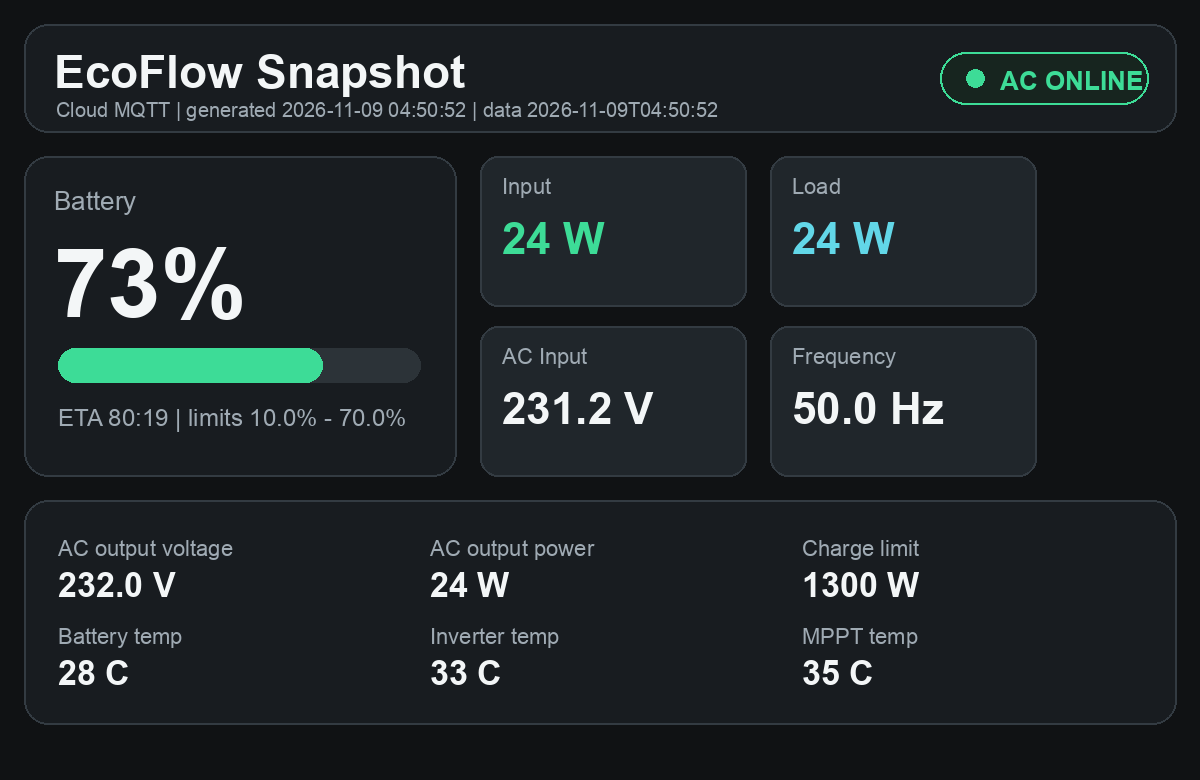
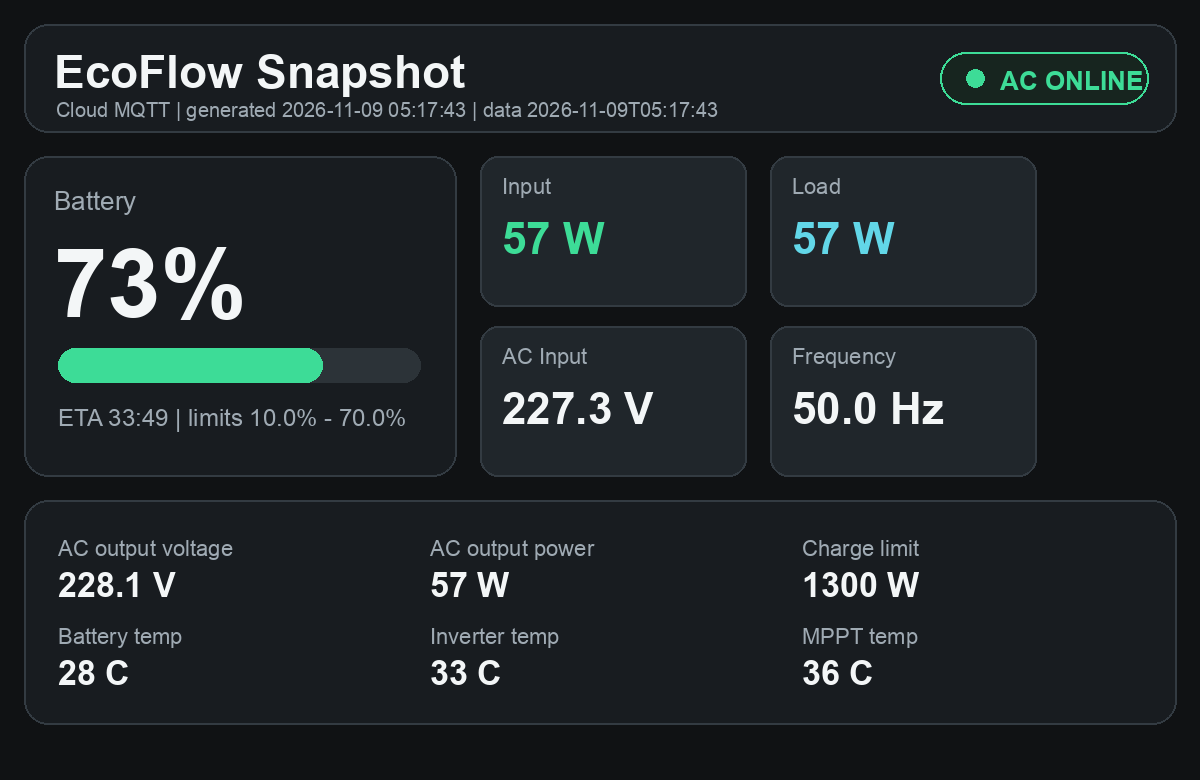
Update EcoFlow dashboard 2026-11-09 05:17:43

diff --git a/index.html b/index.html
@@ -177,7 +177,7 @@
   <header>
     <div>
       <h1>EcoFlow Snapshot</h1>
-      <div class="sub">Cloud MQTT · generated 2026-11-09T04:50:52 · data 2026-11-09T04:50:52</div>
+      <div class="sub">Cloud MQTT · generated 2026-11-09T05:17:43 · data 2026-11-09T05:17:43</div>
     </div>
     <div class="status online"><span class="dot"></span><span>AC online</span></div>
   </header>
@@ -189,20 +189,20 @@
       <h2>Battery</h2>
       <div class="value">73%</div>
       <div class="battery"><div class="fill"></div></div>
-      <div class="row"><span>ETA</span><span>80:19</span></div>
+      <div class="row"><span>ETA</span><span>33:49</span></div>
       <div class="row"><span>SOC limits</span><span>10.0% - 70.0%</span></div>
     </section>
     <section>
       <h2>AC</h2>
-      <div class="row"><span>Input voltage</span><span>231.2 V</span></div>
+      <div class="row"><span>Input voltage</span><span>227.3 V</span></div>
       <div class="row"><span>Input frequency</span><span>50.0 Hz</span></div>
-      <div class="row"><span>Output voltage</span><span>232.0 V</span></div>
+      <div class="row"><span>Output voltage</span><span>228.1 V</span></div>
     </section>
   </div>
 
   <div class="cards">
-    <div class="card"><span class="label">Input</span><span class="value">24 W</span></div>
-    <div class="card"><span class="label">Load</span><span class="value">24 W</span></div>
+    <div class="card"><span class="label">Input</span><span class="value">57 W</span></div>
+    <div class="card"><span class="label">Load</span><span class="value">57 W</span></div>
     <div class="card"><span class="label">Battery temp</span><span class="value">28°C</span></div>
     <div class="card"><span class="label">Inverter temp</span><span class="value">33°C</span></div>
   </div>
@@ -212,13 +212,13 @@
       <h2>Останні 24 години</h2>
       <div class="daily-grid">
         <div class="daily-item"><span class="label">Напруга min / max</span><strong>215 V / 234 V</strong><small>08.11 10:35 / 08.11 21:01</small></div>
-        <div class="daily-item"><span class="label">SOC min / max</span><strong>71% / 78%</strong><small>09.11 00:04 / 08.11 04:58</small></div>
+        <div class="daily-item"><span class="label">SOC min / max</span><strong>71% / 78%</strong><small>09.11 00:04 / 08.11 05:29</small></div>
         <div class="daily-item"><span class="label">Пік навантаження</span><strong>567 W</strong><small>08.11 17:42</small></div>
         <div class="daily-item"><span class="label">Зарядний ліміт</span><strong>1300 W</strong><small>пік входу 1342 W · 103% ліміту</small></div>
         <div class="daily-item"><span class="label">Заряджання</span><strong>3 хв</strong><small>останнє 09.11 00:18</small></div>
         <div class="daily-item"><span class="label">Розряджання</span><strong>0 сек</strong><small>--</small></div>
         <div class="daily-item"><span class="label">Енергія вхід / вихід</span><strong>521 Wh / 456 Wh</strong><small>оцінка за sample-ами</small></div>
-        <div class="daily-item"><span class="label">Частота min / max</span><strong>50.0 Hz / 50.0 Hz</strong><small>08.11 04:58 / 08.11 04:58</small></div>
+        <div class="daily-item"><span class="label">Частота min / max</span><strong>50.0 Hz / 50.0 Hz</strong><small>08.11 05:29 / 08.11 05:29</small></div>
       </div>
     </section>
     
@@ -249,29 +249,29 @@
   &quot;ok&quot;: true,
   &quot;source&quot;: &quot;Cloud MQTT&quot;,
   &quot;device&quot;: &quot;DELTA Pro&quot;,
-  &quot;timestamp&quot;: &quot;2026-11-09T04:50:52&quot;,
+  &quot;timestamp&quot;: &quot;2026-11-09T05:17:43&quot;,
   &quot;grid&quot;: true,
   &quot;battery&quot;: {
     &quot;soc&quot;: 73,
     &quot;min&quot;: 10.0,
     &quot;max&quot;: 70.0,
-    &quot;eta&quot;: &quot;80:19&quot;
+    &quot;eta&quot;: &quot;33:49&quot;
   },
   &quot;power&quot;: {
-    &quot;in&quot;: 24,
-    &quot;out&quot;: 24,
-    &quot;acOut&quot;: 24,
+    &quot;in&quot;: 57,
+    &quot;out&quot;: 57,
+    &quot;acOut&quot;: 57,
     &quot;chargeLimit&quot;: 1300
   },
   &quot;ac&quot;: {
-    &quot;inputVoltage&quot;: 231.219,
+    &quot;inputVoltage&quot;: 227.309,
     &quot;inputFreq&quot;: 50.0,
-    &quot;outputVoltage&quot;: 232.025
+    &quot;outputVoltage&quot;: 228.119
   },
   &quot;temps&quot;: {
     &quot;battery&quot;: 28,
     &quot;inverter&quot;: 33,
-    &quot;mppt&quot;: 35
+    &quot;mppt&quot;: 36
   },
   &quot;history&quot;: [
     {
@@ -392,15 +392,15 @@
   &quot;telemetry&quot;: {
     &quot;window&quot;: &quot;24h&quot;,
     &quot;sample_count&quot;: 64,
-    &quot;from&quot;: &quot;2026-11-08T04:58:47&quot;,
-    &quot;to&quot;: &quot;2026-11-09T04:50:52&quot;,
+    &quot;from&quot;: &quot;2026-11-08T05:29:51&quot;,
+    &quot;to&quot;: &quot;2026-11-09T05:17:43&quot;,
     &quot;latest&quot;: {
       &quot;mode&quot;: &quot;idle&quot;,
       &quot;grid&quot;: true,
       &quot;soc&quot;: 73.0,
-      &quot;ac_v&quot;: 231.219,
-      &quot;in_w&quot;: 24.0,
-      &quot;out_w&quot;: 24.0,
+      &quot;ac_v&quot;: 227.309,
+      &quot;in_w&quot;: 57.0,
+      &quot;out_w&quot;: 57.0,
       &quot;charge_limit_w&quot;: 1300.0
     },
     &quot;voltage&quot;: {
@@ -414,11 +414,11 @@
       },
       &quot;frequency_min&quot;: {
         &quot;value&quot;: 50.0,
-        &quot;ts&quot;: &quot;2026-11-08T04:58:47&quot;
+        &quot;ts&quot;: &quot;2026-11-08T05:29:51&quot;
       },
       &quot;frequency_max&quot;: {
         &quot;value&quot;: 50.0,
-        &quot;ts&quot;: &quot;2026-11-08T04:58:47&quot;
+        &quot;ts&quot;: &quot;2026-11-08T05:29:51&quot;
       }
     },
     &quot;soc&quot;: {
@@ -428,7 +428,7 @@
       },
       &quot;max&quot;: {
         &quot;value&quot;: 78.0,
-        &quot;ts&quot;: &quot;2026-11-08T04:58:47&quot;
+        &quot;ts&quot;: &quot;2026-11-08T05:29:51&quot;
       }
     },
     &quot;power&quot;: {
@@ -446,8 +446,8 @@
       },
       &quot;charge_limit_w&quot;: 1300.0,
       &quot;max_input_pct_of_current_limit&quot;: 103,
-      &quot;input_wh_est&quot;: 521.2,
-      &quot;load_wh_est&quot;: 456.2
+      &quot;input_wh_est&quot;: 521.3,
+      &quot;load_wh_est&quot;: 456.3
     },
     &quot;modes&quot;: {
       &quot;charging_sec&quot;: 180,
